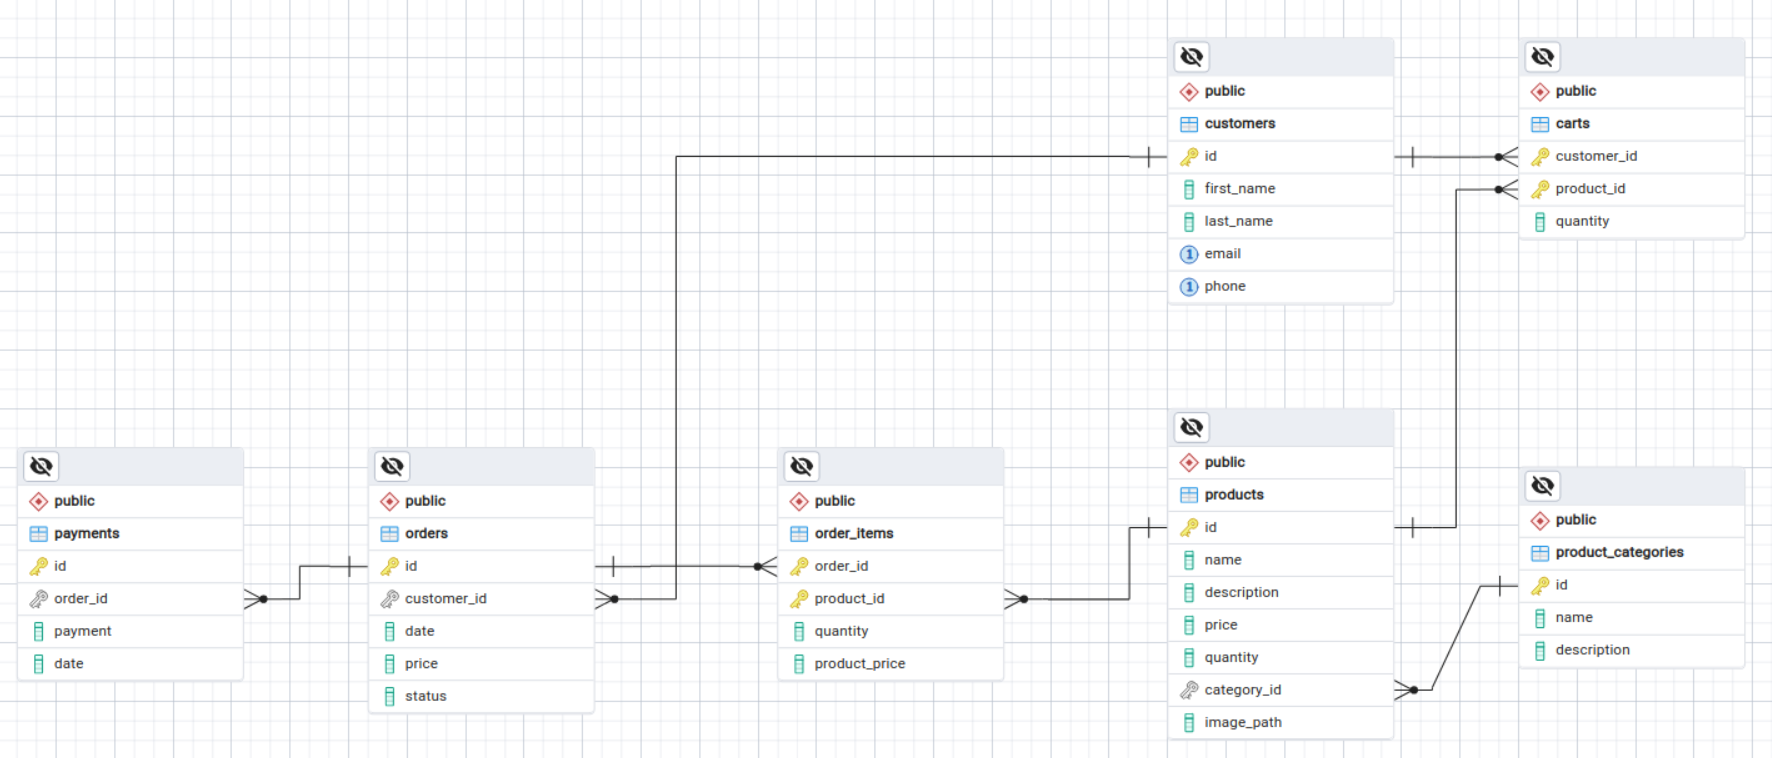
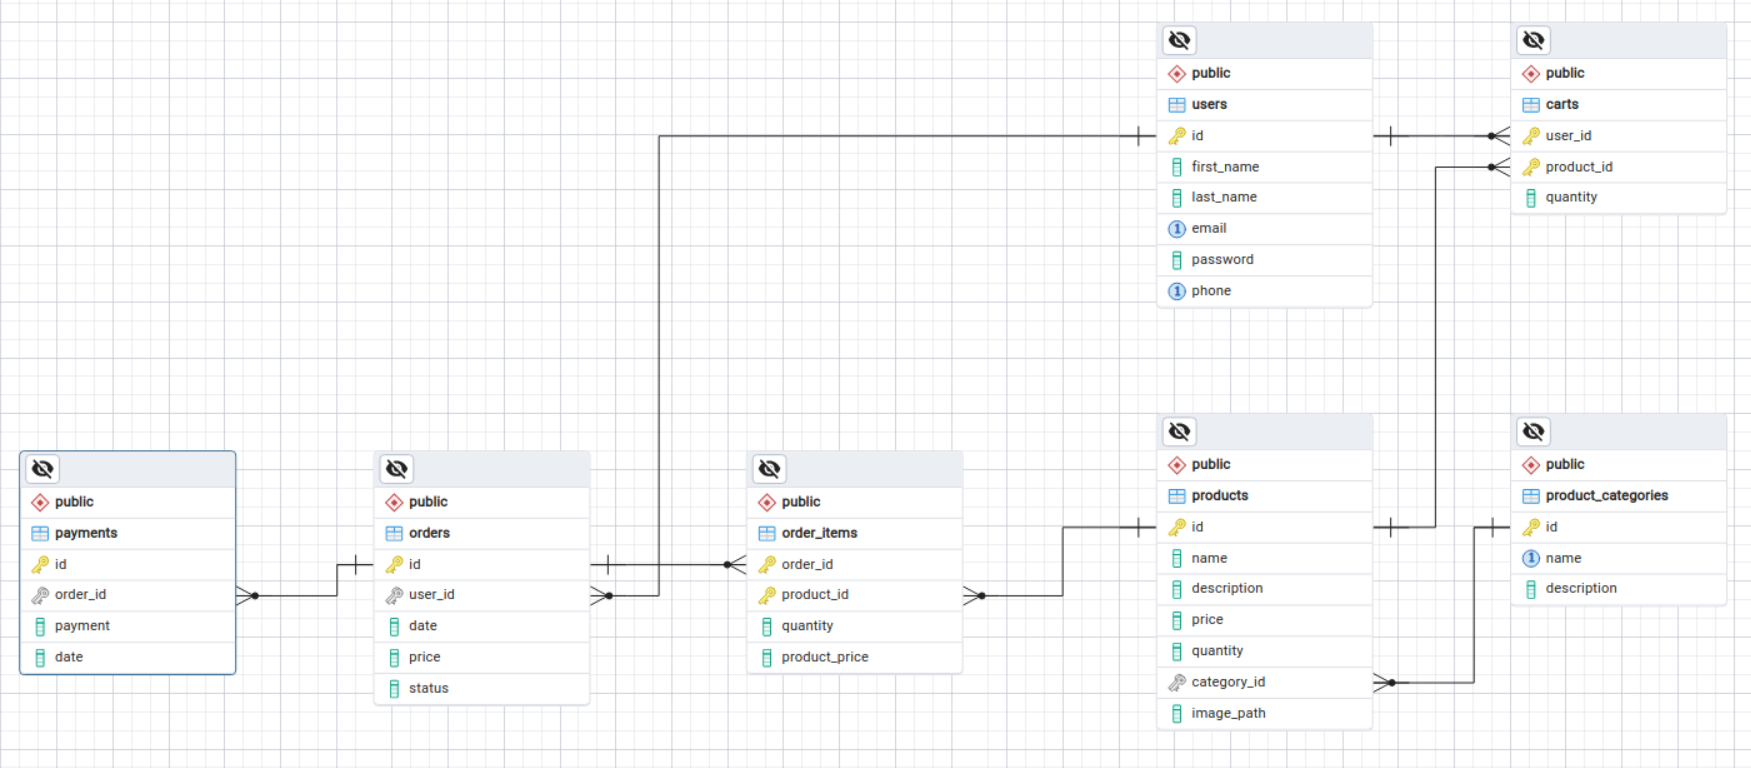
add user repo

diff --git a/internal/repository/postgres/userrepo/user.go b/internal/repository/postgres/userrepo/user.go
@@ -1,0 +1,160 @@
+package userrepo
+
+import (
+	"database/sql"
+	"fmt"
+	"shop/internal/domains"
+
+	"github.com/lib/pq"
+)
+
+var (
+	ErrAlredyExists = fmt.Errorf("user alredy exists")
+	ErrNotFound     = fmt.Errorf("user not found")
+)
+
+type UserRepository struct {
+	db *sql.DB
+}
+
+func New(db *sql.DB) *UserRepository {
+	return &UserRepository{
+		db: db,
+	}
+}
+
+func (r *UserRepository) AddUser(user domains.User) error {
+	fn := "userRepository.AddUser"
+
+	stmt := `
+		INSERT INTO users(first_name, last_name, email, password, phone)
+		VALUES ($1, $2, $3, $4, $5)
+	`
+
+	_, err := r.db.Exec(stmt, user.FirstName, user.LastName, user.Email, user.Password, user.Phone)
+	if err != nil {
+		if err, ok := err.(*pq.Error); ok && err.Code == pq.ErrorCode("23505") {
+			return fmt.Errorf("%s: %w", fn, ErrAlredyExists)
+		}
+		return fmt.Errorf("%s: %w", fn, err)
+	}
+
+	return nil
+}
+
+func (r *UserRepository) GetUserByID(id uint32) (*domains.User, error) {
+	fn := "userRepository.GetUserByID"
+
+	stmt := `
+		SELECT id, first_name, last_name, email, password, phone
+		FROM users
+		WHERE id=$1
+	`
+
+	user := &domains.User{}
+	row := r.db.QueryRow(stmt, id)
+	err := row.Scan(&user.ID, &user.FirstName, &user.LastName, &user.Email, &user.Password, &user.Phone)
+	if err != nil {
+		if err == sql.ErrNoRows {
+			return nil, fmt.Errorf("%s: %w", fn, ErrNotFound)
+		}
+		return nil, fmt.Errorf("%s: %w", fn, err)
+	}
+
+	return user, nil
+}
+
+func (r *UserRepository) GetUserByEmail(email string) (*domains.User, error) {
+	fn := "userRepository.GetUserByEmail"
+
+	stmt := `
+		SELECT id, first_name, last_name, email, password, phone
+		FROM users
+		WHERE email=$1
+	`
+
+	user := &domains.User{}
+	row := r.db.QueryRow(stmt, email)
+	err := row.Scan(&user.ID, &user.FirstName, &user.LastName, &user.Email, &user.Password, &user.Phone)
+	if err != nil {
+		if err == sql.ErrNoRows {
+			return nil, fmt.Errorf("%s: %w", fn, ErrNotFound)
+		}
+		return nil, fmt.Errorf("%s: %w", fn, err)
+	}
+
+	return user, nil
+}
+
+func (r *UserRepository) updateField(id uint32, field string, value any) error {
+	stmt := fmt.Sprintf(`
+		UPDATE users
+		SET %s=$1
+		WHERE id=$2
+	`, field)
+
+	res, err := r.db.Exec(stmt, value, id)
+	if err != nil {
+		return err
+	}
+
+	rowsAff, err := res.RowsAffected()
+	if err != nil {
+		return err
+	}
+
+	if rowsAff == 0 {
+		return ErrNotFound
+	}
+
+	return nil
+}
+
+func (r *UserRepository) UpdateUserFirstName(id uint32, firstName string) error {
+	fn := "userRepository.UpdateUserFirstName"
+	if err := r.updateField(id, "first_name", firstName); err != nil {
+		return fmt.Errorf("%s: %w", fn, err)
+	}
+	return nil
+}
+
+func (r *UserRepository) UpdateUserLastName(id uint32, lastName string) error {
+	fn := "userRepository.UpdateUserLastName"
+	if err := r.updateField(id, "last_name", lastName); err != nil {
+		return fmt.Errorf("%s: %w", fn, err)
+	}
+	return nil
+}
+
+func (r *UserRepository) UpdateUserPassword(id uint32, password string) error {
+	fn := "userRepository.UpdateUserPassword"
+	if err := r.updateField(id, "password", password); err != nil {
+		return fmt.Errorf("%s: %w", fn, err)
+	}
+	return nil
+}
+
+func (r *UserRepository) DeleteUserByID(id uint32) (bool, error) {
+	fn := "userRepository.DeleteUserByID"
+
+	stmt := `
+		DELETE FROM users
+		WHERE id=$1
+	`
+
+	res, err := r.db.Exec(stmt, id)
+	if err != nil {
+		return false, fmt.Errorf("%s: %w", fn, err)
+	}
+
+	rowsAff, err := res.RowsAffected()
+	if err != nil {
+		return false, fmt.Errorf("%s: %w", fn, err)
+	}
+
+	if rowsAff == 0 {
+		return false, fmt.Errorf("%s: %w", fn, ErrNotFound)
+	}
+
+	return true, nil
+}

diff --git a/internal/repository/postgres/postgres.go b/internal/repository/postgres/postgres.go
@@ -6,6 +6,7 @@ import (
 	"shop/internal/config"
 	"shop/internal/repository/postgres/categoryrepo"
 	"shop/internal/repository/postgres/productrepo"
+	"shop/internal/repository/postgres/userrepo"
 
 	_ "github.com/lib/pq"
 )
@@ -13,6 +14,7 @@ import (
 type Repository struct {
 	*categoryrepo.ProductCategoryRepository
 	*productrepo.ProductRepository
+	*userrepo.UserRepository
 }
 
 func New(cfg config.DataBase) (*Repository, error) {
@@ -25,5 +27,6 @@ func New(cfg config.DataBase) (*Repository, error) {
 	return &Repository{
 		categoryrepo.New(db),
 		productrepo.New(db),
+		userrepo.New(db),
 	}, nil
 }

diff --git a/internal/domains/user.go b/internal/domains/user.go
@@ -1,0 +1,10 @@
+package domains
+
+type User struct {
+	ID        uint32
+	FirstName string
+	LastName  string
+	Email     string
+	Password  string
+	Phone     string
+}

diff --git a/README.md b/README.md
@@ -5,5 +5,7 @@
 ## Описание проекта
 
 ### Предметная область
-Приложение должно хранить информацию о товарах, клиентах, заказах, позиций заказа, категориях товаров, оплатах, корзине:
+Приложение должно хранить информацию о товарах, пользователях, заказах, позиций заказа, категориях товаров, оплатах, корзине:
+
+
 ![ERD](./erd.png)
